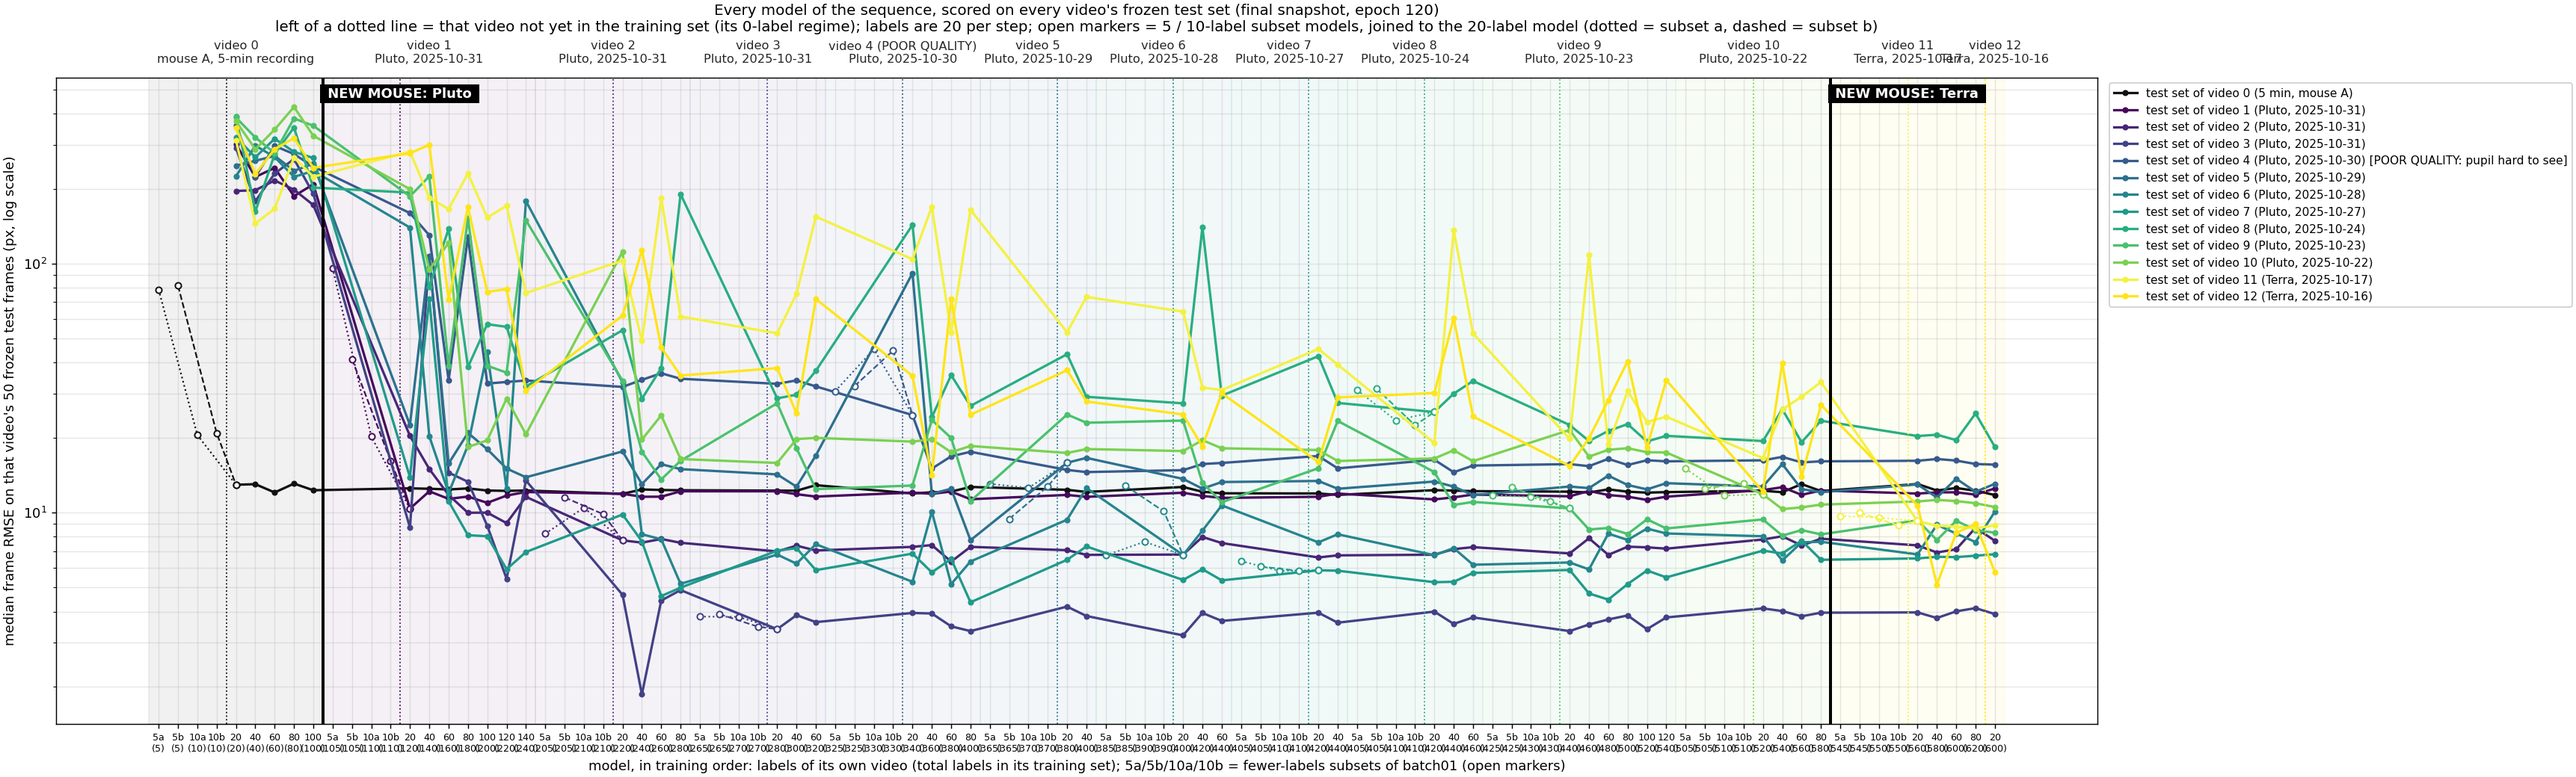
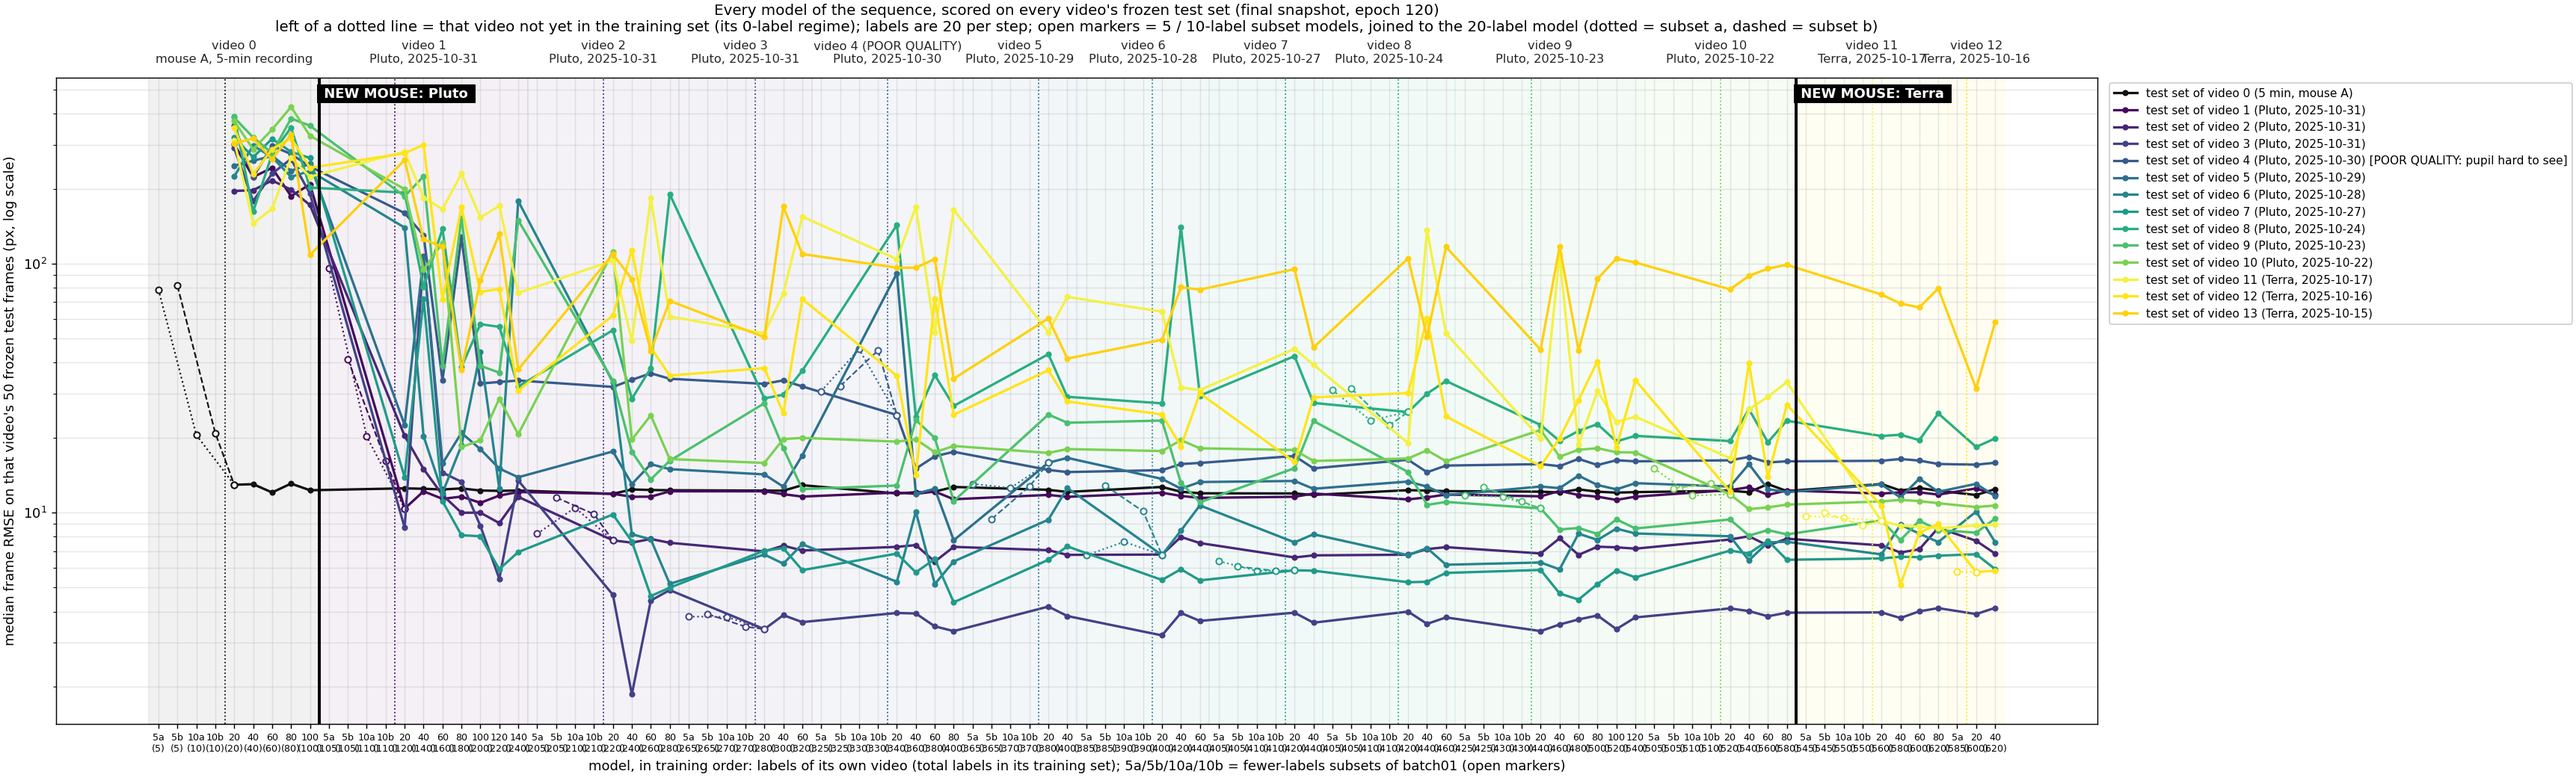
Video 13: test set frozen, 0-label point 69.13 px (56% of frames > 50 px); step 1 training
Claude-Session: https://claude.ai/code/session_017MK5SWBFFQAu8ejFk1z7fh

diff --git a/README.md b/README.md
@@ -26,7 +26,7 @@ per-frame predictions stay local; git carries code, documentation and audited ag
 | Finished | **video 10** (Pluto, 2025-10-22, the last Pluto video of the sequence): test50 / val20 / batch01 pre-labeled with the video-9 80-label model (1014) and corrected by the labeler (test50: 234 of 400 points moved), test set frozen; 0 labels (model 1014) = 18.13 px (p90 32.0, 8% of frames > 50 px), 20 labels = 11.83 px (p90 27.7, 2% > 50 px), 40 labels = 10.32 px (p90 26.1, 92% of keypoints with confidence >= 0.6), 60 labels = 10.49 px (p90 27.2, 8% > 50 px; no gain over 10.32), 80 labels = 10.76 px (p90 188.7, 12% > 50 px; no gain): the plateau rule fired at 80 (two steps without a gain on 10.32), finished at **40 labels, 10.32 px** (user decision 2026-10-03) |
 | Finished | **video 11** (Terra = mouse C, 2025-10-17, the first video of a new mouse): test50 / val20 / batch01 pre-labeled with the video-10 40-label model (1112) and corrected by the labeler (test50: 249 of 400 points moved), test set frozen; 0 labels (model 1112) = 25.96 px (p90 80.1, 16% of frames > 50 px), 20 labels = 9.24 px (p90 166.4, 20% of frames > 50 px), 40 labels = 8.86 px (p90 17.5, 4% of frames > 50 px, 94% of keypoints with confidence >= 0.6; 4.1% better on the median), 60 labels = 8.77 px (p90 12.9, 2% of frames > 50 px, 97% confidence; 1.0% better than 8.86, a flat step), 80 labels = 8.65 px (p90 13.1, 2% > 50 px, 98% confidence; 1.4% better, a second flat step): the plateau rule fired at 80, finished at **40 labels, 8.86 px** (user decision 2026-10-04). Training set of every step = 540 carried labels of videos 0-10 + this video's labels; shuffles 1211, 1212, ... |
 | Finished | **video 12** (Terra, 2025-10-16, second video of mouse C): test50 / val20 / batch01 pre-labeled with the video-11 40-label model (1212) and corrected by the labeler (test50: 110 of 400 points moved), test set frozen; 0 labels (model 1212) = 5.13 px, 20 labels = 5.77 px, 40 labels = 5.84 px (0% of frames > 50 px at every step): no step improves the 0-label number, the plateau rule fired at 40, finished with the plateau at **0 labels, 5.13 px** (user decision 2026-10-04 21:29); no labels carried |
-| In progress | **video 13** (Terra, 2025-10-15): test50 / val20 / batch01 extracted and pre-labeled with model 1212; test set being labeled (2026-10-04 21:29). Training set of every step = 580 carried labels of videos 0-11 + this video's labels; shuffles 1411, 1412, ... |
+| In progress | **video 13** (Terra, 2025-10-15): test50 / val20 / batch01 extracted and pre-labeled with model 1212 and corrected by the labeler (test50: 287 of 400 points moved), test set frozen; 0 labels (model 1212) = 69.13 px (p90 116.6, 56% of frames > 50 px): the model that fitted video 12 does not fit this day; step 1 (20 labels, shuffle 1411) training (2026-10-04 22:57). Training set of every step = 580 carried labels of videos 0-11 + this video's labels; shuffles 1411, 1412, ... |
 | Analysis (2026-10-04) | blink and pupil area on all 12 finished videos (`v2_new_pupil_top_video_scaling/results/blink_and_area/`): four-point area median error 6.6% (three-point 8.3%); closed eye best detected by the mean confidence of the four pupil points (27 of 28 closed frames, 4.1% of open frames flagged; the earlier rule flags 55.7%); area traces still contain tracking jumps not covered by the closure rule. Error and confidence per keypoint (`.../results/keypoint_confidence_error/`): pupil top is the least accurate point (10.9 px median) |
 | Next | Terra units 14-18, one recording day each, newest first |
 

diff --git a/v2_new_pupil_top_video_scaling/results/README.md b/v2_new_pupil_top_video_scaling/results/README.md
@@ -25,7 +25,7 @@ snapshot with the best validation mAP after the first learning-rate drop (epochs
 | 10 `10_20251022_Pluto1` | mouse B, 19.9 min, 2025-10-22 | 500 (videos 0-3 + 40 of video 4 + 20 each of videos 5, 6, 8 + 80 of video 9) | convention v2: 18.13 / 11.83 / 10.32 / 10.49 / 10.76 | **40 labels** (rule fired at 80; user decision 2026-10-03) | 10.32 px |
 | 11 `11_20251017_Terra_spont_1` | mouse C (Terra), 19.9 min, 2025-10-17 | 540 (videos 0-3 + 40 of video 4 + 20 each of videos 5, 6, 8 + 80 of video 9 + 40 of video 10) | convention v2: 25.96 / 9.24 / 8.86 / 8.77 / 8.65 | **40 labels** (rule fired at 80; user decision 2026-10-04) | 8.86 px |
 | 12 `12_20251016_Terra_spont_2` | mouse C (Terra), 19.9 min, 2025-10-16 | 580 (as for video 11 + 40 of video 11) | convention v2: 5.13 (0 labels; biased low by the pre-labels; see the video's README) / 5.77 / 5.84 | **0 labels** (rule fired at 40; the video-11 model already fits) | 5.13 px |
-| 13 `13_20251015_Terra_spont_1` | mouse C (Terra), 19.9 min, 2025-10-15 | 580 (video 12 carries none) | convention v2: test set being labeled | in progress | – |
+| 13 `13_20251015_Terra_spont_1` | mouse C (Terra), 19.9 min, 2025-10-15 | 580 (video 12 carries none) | convention v2: 69.13 (0 labels) | in progress | – |
 
 `labels_to_plateau.png` / `labels_to_plateau.csv` (2026-09-30): the plateau point of every video in the sequence as one figure - labels needed (left) and the error at the plateau vs the 0-label error (right); `scripts/plot_labels_to_plateau.py`. The csv is the table above in machine-readable form and is updated when a video finishes.
 

diff --git a/v2_new_pupil_top_video_scaling/13_20251015_Terra_spont_1/results/README.md b/v2_new_pupil_top_video_scaling/13_20251015_Terra_spont_1/results/README.md
@@ -1,0 +1,17 @@
+# Video 13: 2025-10-15 Terra spont 1 (mouse C, 19.9 min; index 13) - labeling convention v2
+
+Label scaling under convention v2, continuing the v2 line after video 12 (finished with its plateau at 0 labels, so it
+carries none); the third video of mouse C (Terra). This video had no earlier human labels: test50, val20 and batch01
+were pre-labeled with the video-11 40-label model (1212) and corrected by the labeler on 2026-10-04 (test50: 287 of 400
+points moved; val20: 102 of 160; batch01: 96 of 160), then the test set was frozen. Training set of every step = the
+carried labels of the earlier videos (videos 0-3: 100 + 100 + 60 + 60; video 4 run 2 batches 1-2: 40; videos 5, 6, 8
+batch 1: 20 each; video 9 batches 1-4: 80; videos 10 and 11 batches 1-2: 40 each; videos 7 and 12 contributed none; 580
+in total) + this video's labels; shuffles 1411, 1412, ...
+
+| labels of this video | median | p90 | frames > 50 px | keypoints conf >= 0.6 | pool frames flagged by the jump rule |
+|---|---|---|---|---|---|
+| 0 (video-11 40-label model 1212, applied unchanged) | 69.13 px | 116.6 | 56% | 24% | – |
+
+The model that fitted video 12 (the day after, 5.13 px) does not fit this day: 69 px at 0 labels, more than half of
+the test frames above 50 px. The other models of videos 11 and 12 give 31.5-79.4 px on this test set
+(`../results/cross_video_matrix.csv`).
